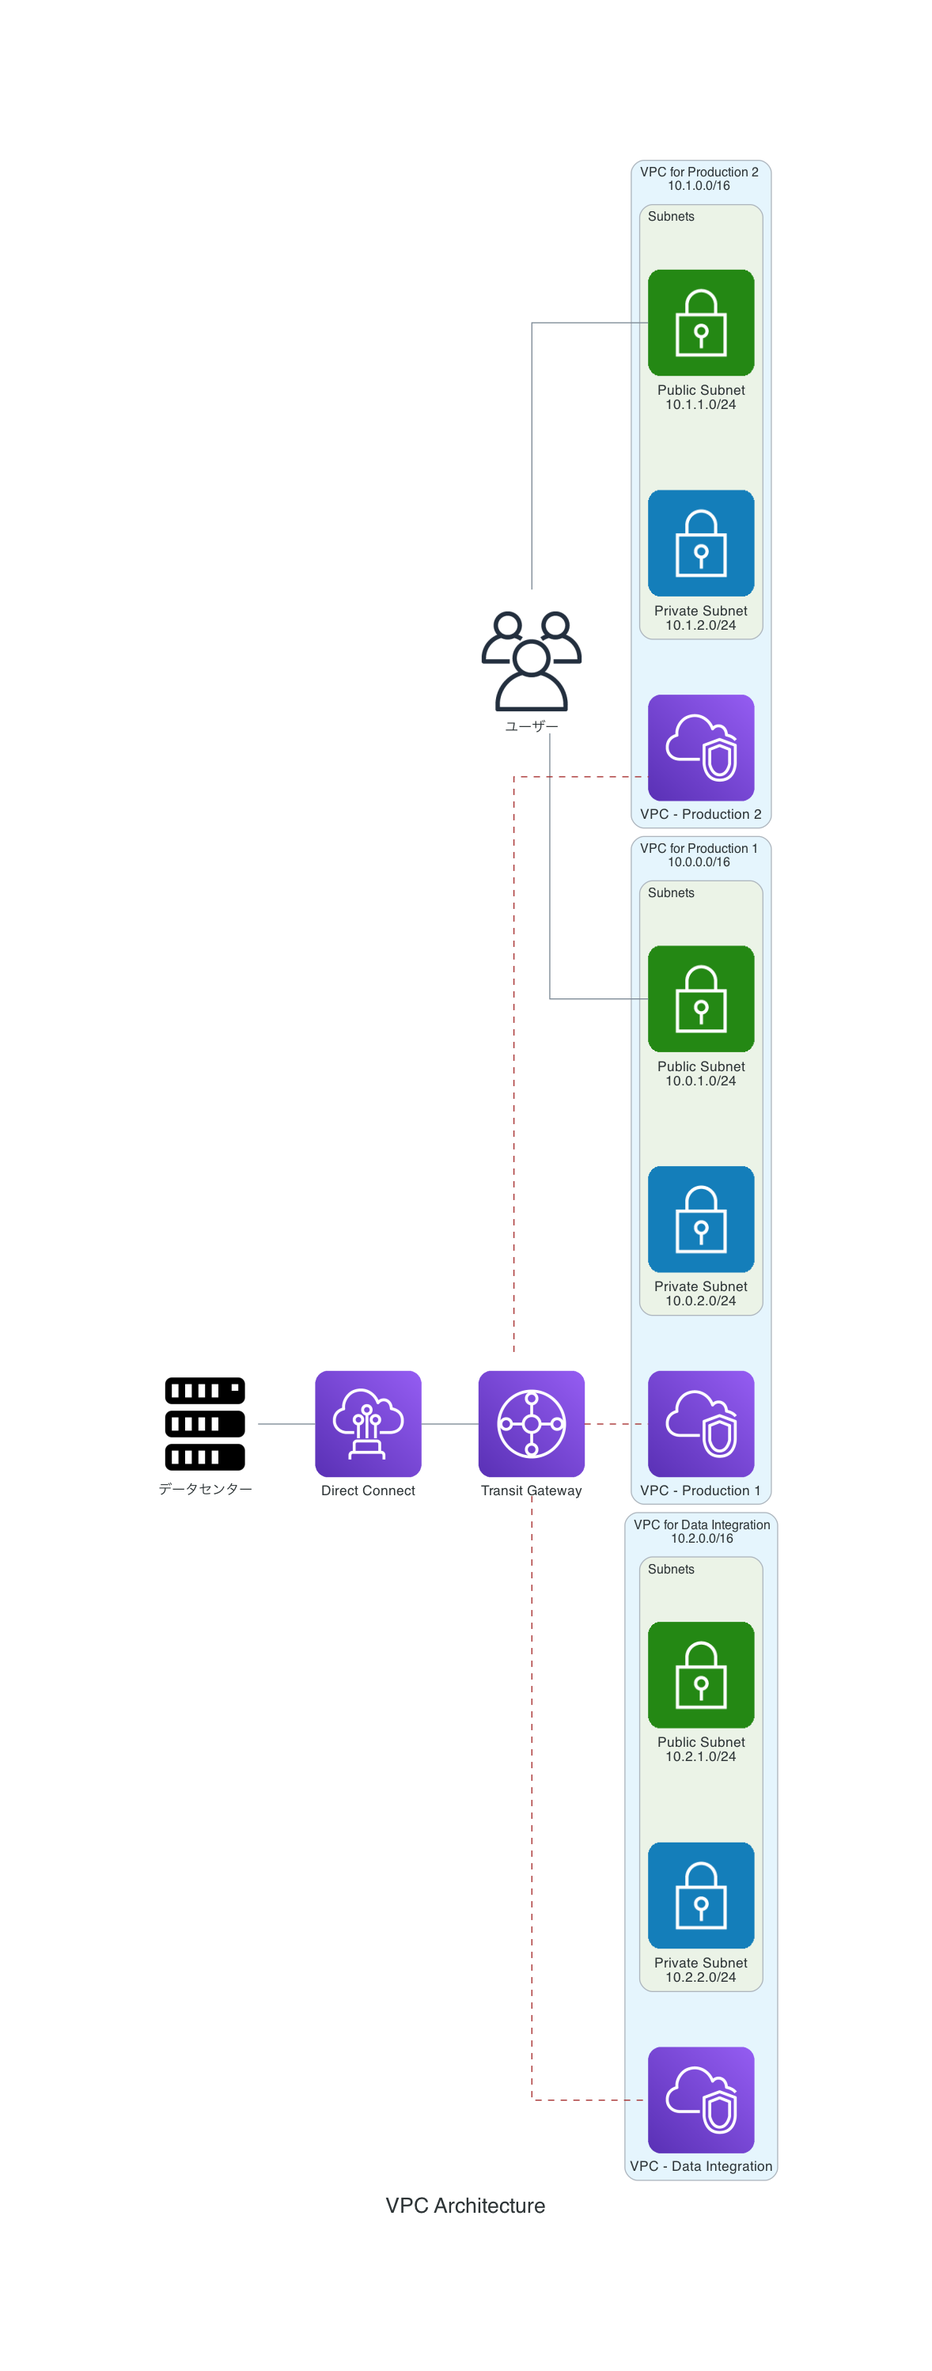
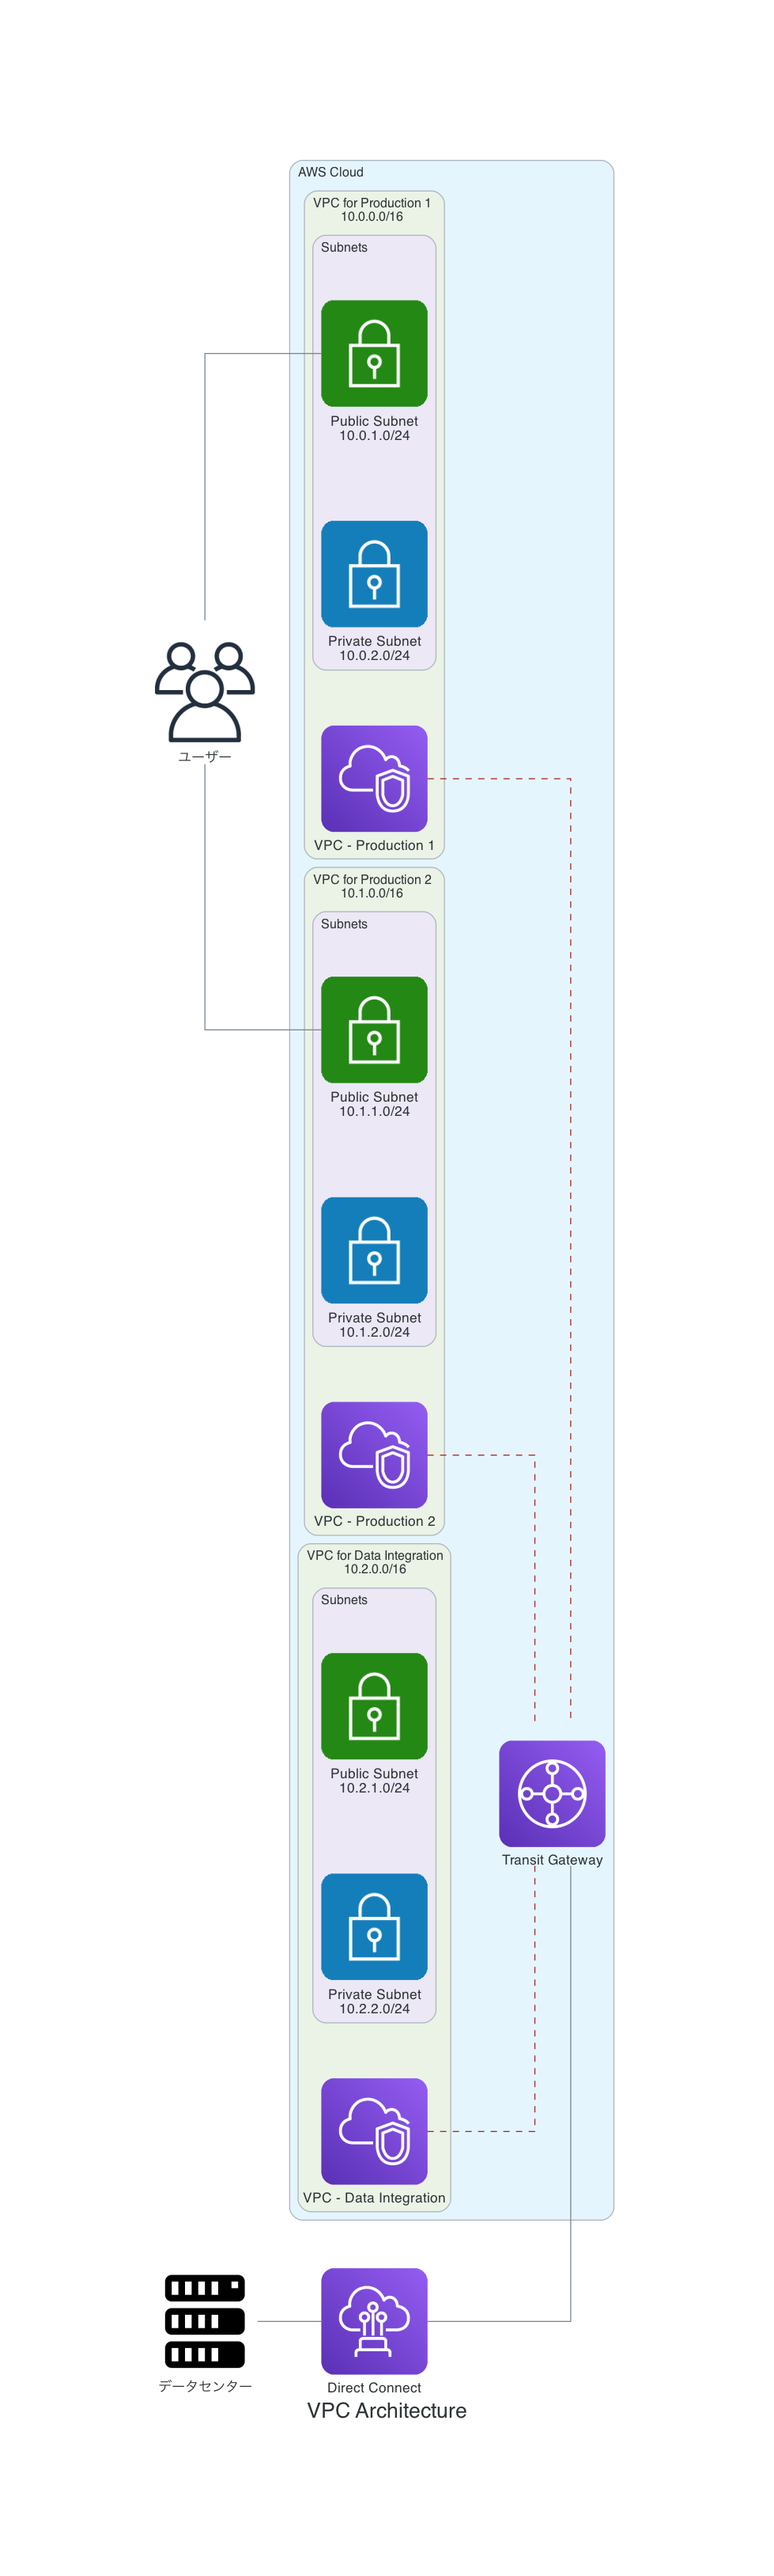
[#3] 修正：構成図にaws cloud clusterを追加

diff --git a/diagram2/diagram2.py b/diagram2/diagram2.py
@@ -13,31 +13,33 @@ with Diagram("VPC Architecture", show=True, graph_attr=graph_attr, outformat="pn
     datacenter = Server("データセンター")
     direct_connect = DirectConnect("Direct Connect")
 
-    with Cluster("VPC for Production 1\n10.0.0.0/16"):
-        vpc_prod_1 = VPC("VPC - Production 1")
-        with Cluster("Subnets"):
-            public_subnet_prod_1 = PublicSubnet("Public Subnet\n10.0.1.0/24")
-            private_subnet_prod_1 = PrivateSubnet("Private Subnet\n10.0.2.0/24")
+    with Cluster("AWS Cloud"):
+        transit_gateway = TransitGateway("Transit Gateway")
 
-    with Cluster("VPC for Production 2\n10.1.0.0/16"):
-        vpc_prod_2 = VPC("VPC - Production 2")
-        with Cluster("Subnets"):
-            public_subnet_prod_2 = PublicSubnet("Public Subnet\n10.1.1.0/24")
-            private_subnet_prod_2 = PrivateSubnet("Private Subnet\n10.1.2.0/24")
+        with Cluster("VPC for Production 1\n10.0.0.0/16"):
+            vpc_prod_1 = VPC("VPC - Production 1")
+            with Cluster("Subnets"):
+                public_subnet_prod_1 = PublicSubnet("Public Subnet\n10.0.1.0/24")
+                private_subnet_prod_1 = PrivateSubnet("Private Subnet\n10.0.2.0/24")
 
-    with Cluster("VPC for Data Integration\n10.2.0.0/16"):
-        vpc_data_integration = VPC("VPC - Data Integration")
-        with Cluster("Subnets"):
-            public_subnet_data_integration = PublicSubnet("Public Subnet\n10.2.1.0/24")
-            private_subnet_data_integration = PrivateSubnet("Private Subnet\n10.2.2.0/24")
+        with Cluster("VPC for Production 2\n10.1.0.0/16"):
+            vpc_prod_2 = VPC("VPC - Production 2")
+            with Cluster("Subnets"):
+                public_subnet_prod_2 = PublicSubnet("Public Subnet\n10.1.1.0/24")
+                private_subnet_prod_2 = PrivateSubnet("Private Subnet\n10.1.2.0/24")
 
-    transit_gateway = TransitGateway("Transit Gateway")
+        with Cluster("VPC for Data Integration\n10.2.0.0/16"):
+            vpc_data_integration = VPC("VPC - Data Integration")
+            with Cluster("Subnets"):
+                public_subnet_data_integration = PublicSubnet("Public Subnet\n10.2.1.0/24")
+                private_subnet_data_integration = PrivateSubnet("Private Subnet\n10.2.2.0/24")
 
-    # Connect nodes
+        # Connect nodes within AWS Cloud
+        vpc_prod_1 - Edge(color="brown", style="dashed") - transit_gateway
+        vpc_prod_2 - Edge(color="brown", style="dashed") - transit_gateway
+        vpc_data_integration - Edge(color="brown", style="dashed") - transit_gateway
+
+    # Connect nodes outside of AWS Cloud
     users_01 - public_subnet_prod_1
     users_01 - public_subnet_prod_2
     datacenter - direct_connect - transit_gateway
-
-    transit_gateway - Edge(color="brown", style="dashed") - vpc_prod_1
-    transit_gateway - Edge(color="brown", style="dashed") - vpc_prod_2
-    transit_gateway - Edge(color="brown", style="dashed") - vpc_data_integration
